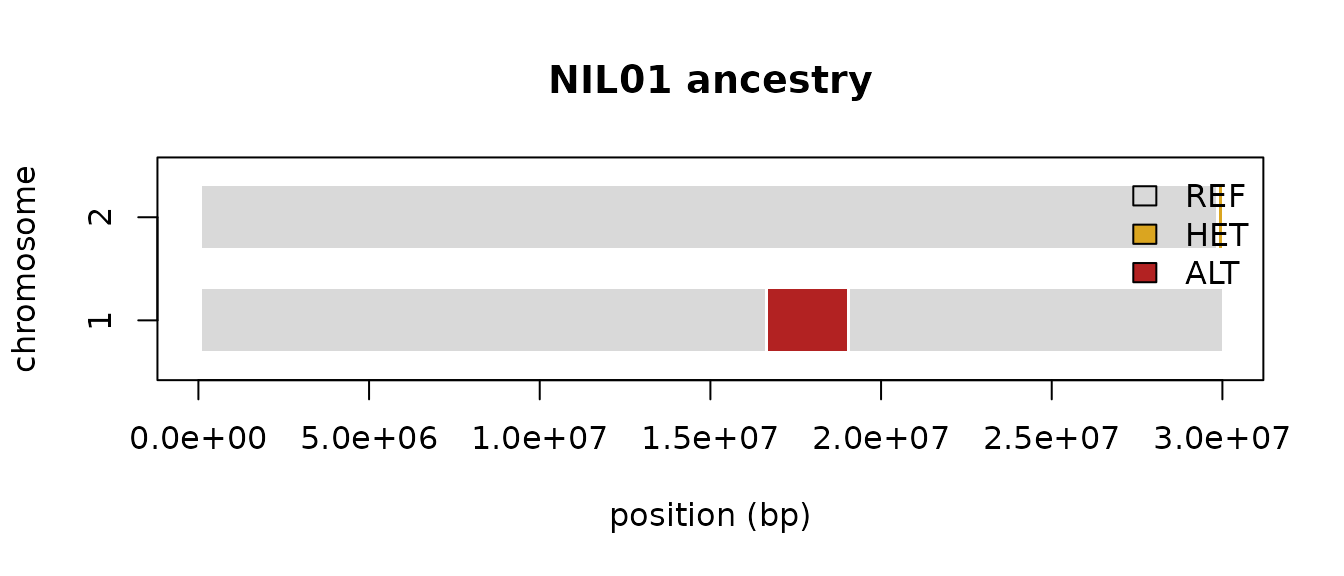
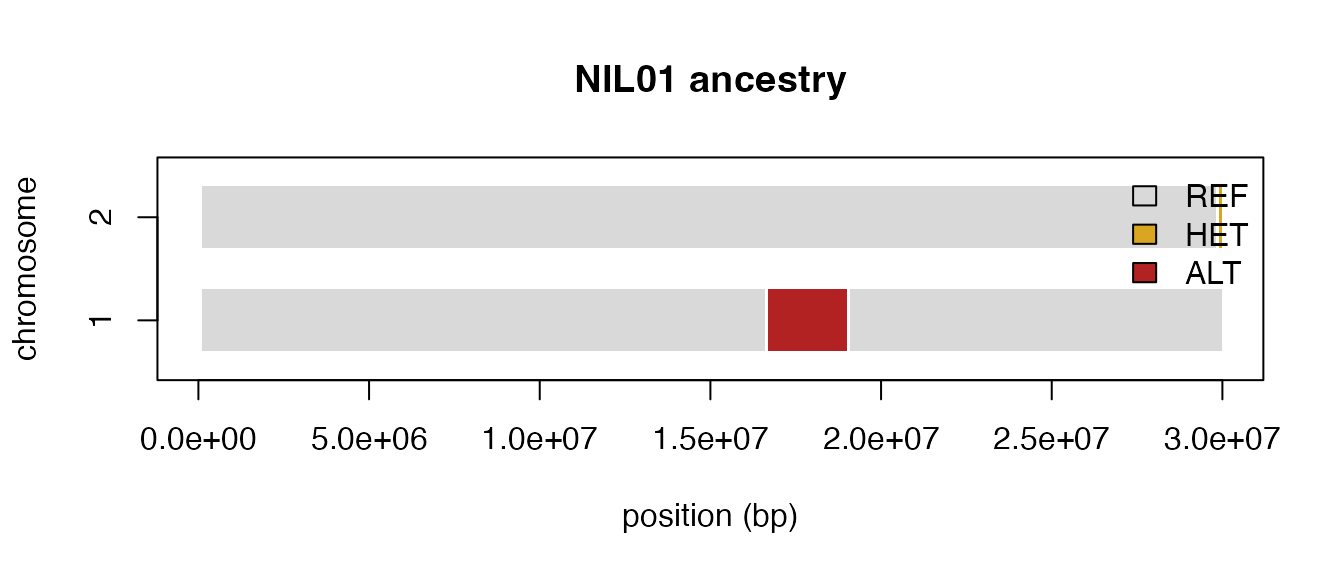
Built site for nilHMM@0.1.0:

diff --git a/CLAUDE.html b/CLAUDE.html
@@ -35,7 +35,7 @@
   <main id="main" class="col-md-9"><div class="page-header">
 
       <h1>CLAUDE.md</h1>
-      <small class="dont-index">Source: <a href="https://github.com/sawers-rellan-labs/nilhmm/blob/main/CLAUDE.md" class="external-link"><code>CLAUDE.md</code></a></small>
+      <small class="dont-index">Source: <a href="https://github.com/sawers-rellan-labs/nilhmm/blob/HEAD/CLAUDE.md" class="external-link"><code>CLAUDE.md</code></a></small>
     </div>
 
 <div id="claudemd" class="section level1">
@@ -128,11 +128,11 @@
 </ul></div>
 <div class="section level2">
 <h2 id="c--build-workflow">C++ / build workflow<a class="anchor" aria-label="anchor" href="#c--build-workflow"></a></h2>
-<ul><li>Rcpp bindings are generated — <strong>never hand-edit</strong> <code>src/RcppExports.cpp</code> or <code>R/RcppExports.R</code>. After adding/changing a <code>// [[Rcpp::export]]</code> function, run <code><a href="https://rdrr.io/pkg/Rcpp/man/compileAttributes.html" class="external-link">Rcpp::compileAttributes()</a></code> then <code>devtools::document()</code>.</li>
+<ul><li>Rcpp bindings are generated — <strong>never hand-edit</strong> <code>src/RcppExports.cpp</code> or <code>R/RcppExports.R</code>. After adding/changing a <code>// [[Rcpp::export]]</code> function, run <code><a href="https://rdrr.io/pkg/Rcpp/man/compileAttributes.html" class="external-link">Rcpp::compileAttributes()</a></code> then <code><a href="https://devtools.r-lib.org/reference/document.html" class="external-link">devtools::document()</a></code>.</li>
 <li>C++ style (see <code>src/segments.cpp</code>): <code>#include &lt;Rcpp.h&gt;</code>, <code>using namespace Rcpp;</code>, <code>//'</code> roxygen with <code>@param</code>/<code>@return</code>/<code>@keywords internal</code>, <code>// [[Rcpp::export]]</code>, <code>*_cpp</code> naming. Process <strong>one chromosome at a time</strong>; markers must be sorted.</li>
 <li>
 <code>Makevars</code> links the TBB runtime via <code><a href="https://rdrr.io/pkg/RcppParallel/man/flags.html" class="external-link">RcppParallel::RcppParallelLibs()</a></code> (<code>SystemRequirements: GNU make</code>). <code>nilHMM-package.R</code> imports RcppParallel first so the bundled TBB loads before nilHMM’s DLL (otherwise <code>dlopen</code> fails on clean install).</li>
-<li>Typical dev loop: <code>devtools::load_all()</code> → <code>devtools::test()</code> → <code>devtools::document()</code> → <code>R CMD check</code>. <code><a href="https://rdrr.io/pkg/Rcpp/man/compileAttributes.html" class="external-link">Rcpp::compileAttributes()</a></code> after C++ changes.</li>
+<li>Typical dev loop: <code><a href="https://devtools.r-lib.org/reference/load_all.html" class="external-link">devtools::load_all()</a></code> → <code><a href="https://devtools.r-lib.org/reference/test.html" class="external-link">devtools::test()</a></code> → <code><a href="https://devtools.r-lib.org/reference/document.html" class="external-link">devtools::document()</a></code> → <code>R CMD check</code>. <code><a href="https://rdrr.io/pkg/Rcpp/man/compileAttributes.html" class="external-link">Rcpp::compileAttributes()</a></code> after C++ changes.</li>
 </ul></div>
 <div class="section level2">
 <h2 id="design-constraints">Design constraints<a class="anchor" aria-label="anchor" href="#design-constraints"></a></h2>

diff --git a/articles/callers.html b/articles/callers.html
@@ -31,7 +31,7 @@
       <ul class="navbar-nav me-auto">
 <li class="nav-item"><a class="nav-link" href="../articles/nilHMM.html">Get started</a></li>
 <li class="nav-item"><a class="nav-link" href="../reference/index.html">Reference</a></li>
-<li class="active nav-item dropdown">
+<li class="nav-item dropdown">
   <button class="nav-link dropdown-toggle" type="button" id="dropdown-articles" data-bs-toggle="dropdown" aria-expanded="false" aria-haspopup="true">Articles</button>
   <ul class="dropdown-menu" aria-labelledby="dropdown-articles">
 <li><a class="dropdown-item" href="../articles/callers.html">The callers: one example each</a></li>
@@ -61,7 +61,7 @@
       <h1>The callers: one example each</h1>
             
       
-      <small class="dont-index">Source: <a href="https://github.com/sawers-rellan-labs/nilhmm/blob/main/vignettes/callers.Rmd" class="external-link"><code>vignettes/callers.Rmd</code></a></small>
+      <small class="dont-index">Source: <a href="https://github.com/sawers-rellan-labs/nilhmm/blob/HEAD/vignettes/callers.Rmd" class="external-link"><code>vignettes/callers.Rmd</code></a></small>
       <div class="d-none name"><code>callers.Rmd</code></div>
     </div>
 

diff --git a/articles/engine.html b/articles/engine.html
@@ -31,7 +31,7 @@
       <ul class="navbar-nav me-auto">
 <li class="nav-item"><a class="nav-link" href="../articles/nilHMM.html">Get started</a></li>
 <li class="nav-item"><a class="nav-link" href="../reference/index.html">Reference</a></li>
-<li class="active nav-item dropdown">
+<li class="nav-item dropdown">
   <button class="nav-link dropdown-toggle" type="button" id="dropdown-articles" data-bs-toggle="dropdown" aria-expanded="false" aria-haspopup="true">Articles</button>
   <ul class="dropdown-menu" aria-labelledby="dropdown-articles">
 <li><a class="dropdown-item" href="../articles/callers.html">The callers: one example each</a></li>
@@ -61,7 +61,7 @@
       <h1>The engine: one chain, two swappable axes</h1>
             
       
-      <small class="dont-index">Source: <a href="https://github.com/sawers-rellan-labs/nilhmm/blob/main/vignettes/engine.Rmd" class="external-link"><code>vignettes/engine.Rmd</code></a></small>
+      <small class="dont-index">Source: <a href="https://github.com/sawers-rellan-labs/nilhmm/blob/HEAD/vignettes/engine.Rmd" class="external-link"><code>vignettes/engine.Rmd</code></a></small>
       <div class="d-none name"><code>engine.Rmd</code></div>
     </div>
 

diff --git a/articles/fsfhap.html b/articles/fsfhap.html
@@ -31,7 +31,7 @@
       <ul class="navbar-nav me-auto">
 <li class="nav-item"><a class="nav-link" href="../articles/nilHMM.html">Get started</a></li>
 <li class="nav-item"><a class="nav-link" href="../reference/index.html">Reference</a></li>
-<li class="active nav-item dropdown">
+<li class="nav-item dropdown">
   <button class="nav-link dropdown-toggle" type="button" id="dropdown-articles" data-bs-toggle="dropdown" aria-expanded="false" aria-haspopup="true">Articles</button>
   <ul class="dropdown-menu" aria-labelledby="dropdown-articles">
 <li><a class="dropdown-item" href="../articles/callers.html">The callers: one example each</a></li>
@@ -61,7 +61,7 @@
       <h1>Full-sib families with the fsfhap caller</h1>
             
       
-      <small class="dont-index">Source: <a href="https://github.com/sawers-rellan-labs/nilhmm/blob/main/vignettes/fsfhap.Rmd" class="external-link"><code>vignettes/fsfhap.Rmd</code></a></small>
+      <small class="dont-index">Source: <a href="https://github.com/sawers-rellan-labs/nilhmm/blob/HEAD/vignettes/fsfhap.Rmd" class="external-link"><code>vignettes/fsfhap.Rmd</code></a></small>
       <div class="d-none name"><code>fsfhap.Rmd</code></div>
     </div>
 

diff --git a/articles/nilHMM.html b/articles/nilHMM.html
@@ -29,7 +29,7 @@
 
     <div id="navbar" class="collapse navbar-collapse ms-3">
       <ul class="navbar-nav me-auto">
-<li class="active nav-item"><a class="nav-link" href="../articles/nilHMM.html">Get started</a></li>
+<li class="nav-item"><a class="nav-link" href="../articles/nilHMM.html">Get started</a></li>
 <li class="nav-item"><a class="nav-link" href="../reference/index.html">Reference</a></li>
 <li class="nav-item dropdown">
   <button class="nav-link dropdown-toggle" type="button" id="dropdown-articles" data-bs-toggle="dropdown" aria-expanded="false" aria-haspopup="true">Articles</button>
@@ -61,7 +61,7 @@
       <h1>Getting started with nilHMM</h1>
             
       
-      <small class="dont-index">Source: <a href="https://github.com/sawers-rellan-labs/nilhmm/blob/main/vignettes/nilHMM.Rmd" class="external-link"><code>vignettes/nilHMM.Rmd</code></a></small>
+      <small class="dont-index">Source: <a href="https://github.com/sawers-rellan-labs/nilhmm/blob/HEAD/vignettes/nilHMM.Rmd" class="external-link"><code>vignettes/nilHMM.Rmd</code></a></small>
       <div class="d-none name"><code>nilHMM.Rmd</code></div>
     </div>
 

diff --git a/LICENSE.html b/LICENSE.html
@@ -35,7 +35,7 @@
   <main id="main" class="col-md-9"><div class="page-header">
 
       <h1>MIT License</h1>
-      <small class="dont-index">Source: <a href="https://github.com/sawers-rellan-labs/nilhmm/blob/main/LICENSE.md" class="external-link"><code>LICENSE.md</code></a></small>
+      <small class="dont-index">Source: <a href="https://github.com/sawers-rellan-labs/nilhmm/blob/HEAD/LICENSE.md" class="external-link"><code>LICENSE.md</code></a></small>
     </div>
 
 <div id="mit-license" class="section level1">

diff --git a/authors.html b/authors.html
@@ -48,7 +48,7 @@
 
     <div class="section level2">
       <h2 id="citation">Citation</h2>
-      <p><small class="dont-index">Source: <a href="https://github.com/sawers-rellan-labs/nilhmm/blob/main/inst/CITATION" class="external-link"><code>inst/CITATION</code></a></small></p>
+      <p><small class="dont-index">Source: <a href="https://github.com/sawers-rellan-labs/nilhmm/blob/HEAD/inst/CITATION" class="external-link"><code>inst/CITATION</code></a></small></p>
 
       <p>Rodriguez Zapata F (2025).
 <em>nilHMM: Duration-Aware HMM Ancestry Caller for NIL Sequencing Data</em>.

diff --git a/index.html b/index.html
@@ -75,7 +75,7 @@
 </h2>
 <div class="sourceCode" id="cb2"><pre class="downlit sourceCode r">
 <code class="sourceCode R"><span><span class="co"># install.packages("devtools")</span></span>
-<span><span class="fu">devtools</span><span class="fu">::</span><span class="fu">install_github</span><span class="op">(</span><span class="st">"sawers-rellan-labs/nilhmm"</span><span class="op">)</span></span></code></pre></div>
+<span><span class="fu">devtools</span><span class="fu">::</span><span class="fu"><a href="https://devtools.r-lib.org/reference/install-deprecated.html" class="external-link">install_github</a></span><span class="op">(</span><span class="st">"sawers-rellan-labs/nilhmm"</span><span class="op">)</span></span></code></pre></div>
 <p>Building from source needs a <strong>C++ toolchain</strong> (the engine is Rcpp / RcppParallel). The <code>rtiger</code> caller is a <strong>Julia-free port</strong> of the RTIGER HMM, so no Julia install is required. <code>rebmix</code> is an optional <code>Suggests</code> (only for bit-exact reproduction of the original <code>binhmm</code> clustering backend).</p>
 </div>
 <div class="section level2">

diff --git a/reference/calibrate_r.html b/reference/calibrate_r.html
@@ -37,7 +37,7 @@ between called donor-block sizes and the simulated-truth distribution."></head><
   <main id="main" class="col-md-9"><div class="page-header">
 
       <h1>Calibrate the duration hyperparameter <code>r</code> by KS-vs-sim</h1>
-      <small class="dont-index">Source: <a href="https://github.com/sawers-rellan-labs/nilhmm/blob/main/R/calibrate.R" class="external-link"><code>R/calibrate.R</code></a></small>
+      <small class="dont-index">Source: <a href="https://github.com/sawers-rellan-labs/nilhmm/blob/HEAD/R/calibrate.R" class="external-link"><code>R/calibrate.R</code></a></small>
       <div class="d-none name"><code>calibrate_r.Rd</code></div>
     </div>
 

diff --git a/reference/call_ancestry.html b/reference/call_ancestry.html
@@ -41,7 +41,7 @@ call_states() for the full argument list."></head><body>
   <main id="main" class="col-md-9"><div class="page-header">
 
       <h1>Top-level ancestry-calling API (decode + segment)</h1>
-      <small class="dont-index">Source: <a href="https://github.com/sawers-rellan-labs/nilhmm/blob/main/R/engine.R" class="external-link"><code>R/engine.R</code></a></small>
+      <small class="dont-index">Source: <a href="https://github.com/sawers-rellan-labs/nilhmm/blob/HEAD/R/engine.R" class="external-link"><code>R/engine.R</code></a></small>
       <div class="d-none name"><code>call_ancestry.Rd</code></div>
     </div>
 

diff --git a/reference/call_gl.html b/reference/call_gl.html
@@ -53,7 +53,7 @@ zero total depth carry no signal and are returned as NA."></head><body>
   <main id="main" class="col-md-9"><div class="page-header">
 
       <h1>Per-site genotype-likelihood (GL) genotype caller with a swappable prior</h1>
-      <small class="dont-index">Source: <a href="https://github.com/sawers-rellan-labs/nilhmm/blob/main/R/call_gl.R" class="external-link"><code>R/call_gl.R</code></a></small>
+      <small class="dont-index">Source: <a href="https://github.com/sawers-rellan-labs/nilhmm/blob/HEAD/R/call_gl.R" class="external-link"><code>R/call_gl.R</code></a></small>
       <div class="d-none name"><code>call_gl.Rd</code></div>
     </div>
 

diff --git a/reference/call_states.html b/reference/call_states.html
@@ -45,7 +45,7 @@ Data-agnostic: pass the observations in; this function never reads paths."></hea
   <main id="main" class="col-md-9"><div class="page-header">
 
       <h1>Coordinate-free ancestry decode (per-observation states)</h1>
-      <small class="dont-index">Source: <a href="https://github.com/sawers-rellan-labs/nilhmm/blob/main/R/engine.R" class="external-link"><code>R/engine.R</code></a></small>
+      <small class="dont-index">Source: <a href="https://github.com/sawers-rellan-labs/nilhmm/blob/HEAD/R/engine.R" class="external-link"><code>R/engine.R</code></a></small>
       <div class="d-none name"><code>call_states.Rd</code></div>
     </div>
 